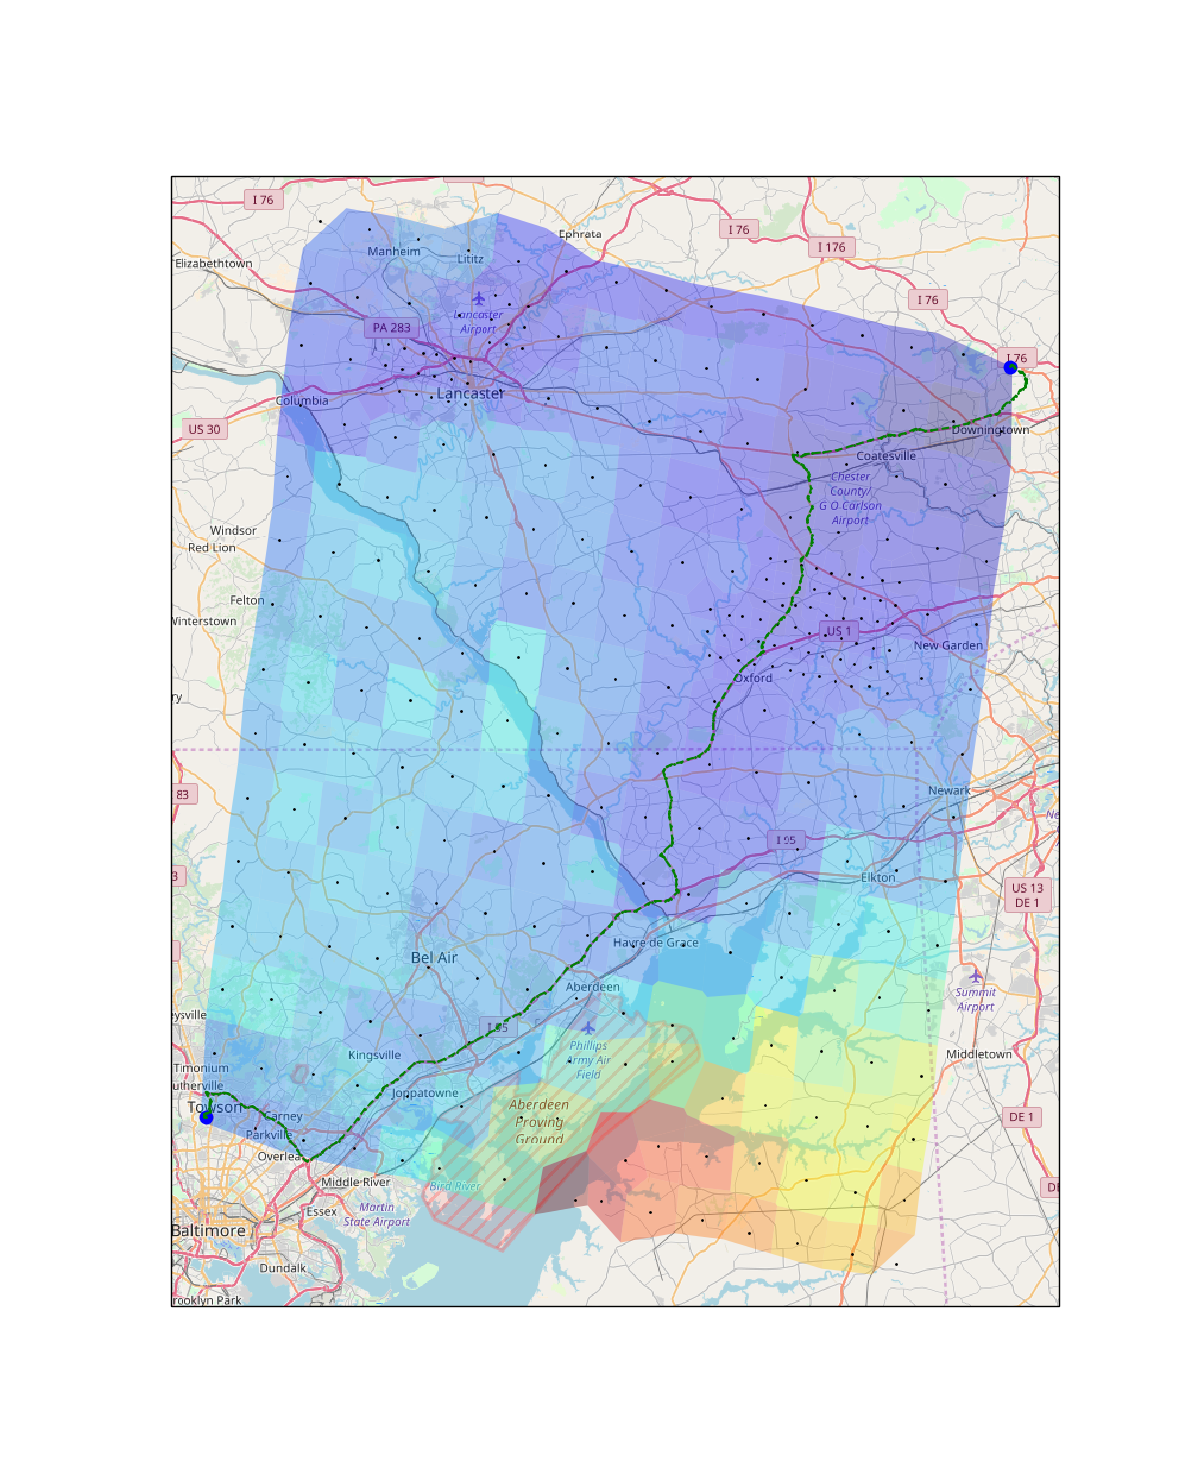
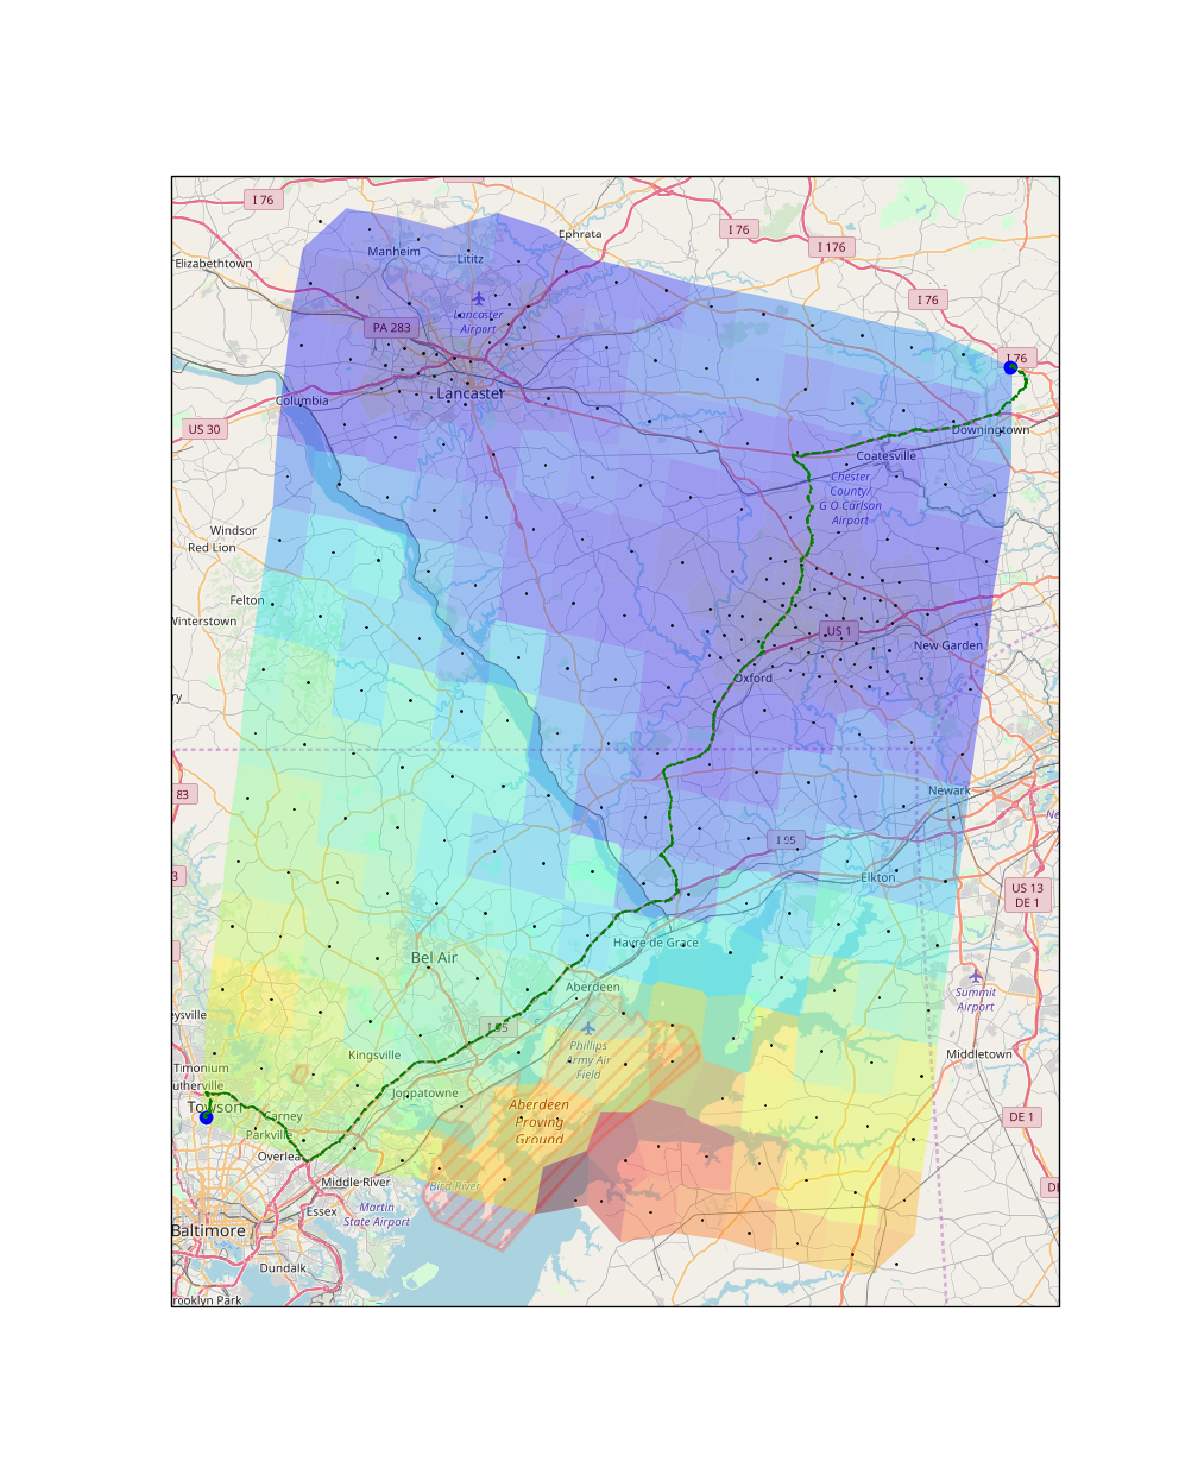
Added while loop to catch errors from Maps API

diff --git a/Voronoi+Directions.py b/Voronoi+Directions.py
@@ -14,6 +14,8 @@ from datetime import datetime
 from scipy.spatial import Voronoi, voronoi_plot_2d
 import shapely.geometry
 import shapely.ops
+import time
+
 
 
 gmaps = googlemaps.Client(key='AIzaSyCEVlqLL37Sy3D7ASUTjiy6WxNCTtUOVNA')
@@ -300,20 +302,20 @@ dfDest=pandas.DataFrame(columns=asColumns)
 #West
 dfDest.loc[0,'Lat']=40.061341
 dfDest.loc[0,'Lon']=-75.680189
-dfDest.loc[0,'Arrival']=pandas.datetime(2018,1,9,8,15) # do not use leading zeros
-dfDest.loc[0,'Depart']=pandas.datetime(2018,1,9,17,10)
+dfDest.loc[0,'Arrival']=pandas.datetime(2018,2,6,8,15) # do not use leading zeros
+dfDest.loc[0,'Depart']=pandas.datetime(2018,2,6,17,10)
 dfDest.loc[0,'NumDays']=5
 #Towson
 dfDest.loc[1,'Lat']=39.392512
 dfDest.loc[1,'Lon']=-76.612639
-dfDest.loc[1,'Arrival']=pandas.datetime(2018,1,9,11,15)
-dfDest.loc[1,'Depart']=pandas.datetime(2018,1,9,15,30)
+dfDest.loc[1,'Arrival']=pandas.datetime(2018,2,6,11,15)
+dfDest.loc[1,'Depart']=pandas.datetime(2018,2,6,15,30)
 dfDest.loc[1,'NumDays']=3.56
 ##Towson Northeast
 #dfDest.loc[1,'Lat']=39.564511
 #dfDest.loc[1,'Lon']=-76.289427
-#dfDest.loc[1,'Arrival']=pandas.datetime(2018,1,9,11,15)
-#dfDest.loc[1,'Depart']=pandas.datetime(2018,1,9,15,30)
+#dfDest.loc[1,'Arrival']=pandas.datetime(2018,2,6,11,15)
+#dfDest.loc[1,'Depart']=pandas.datetime(2018,2,6,15,30)
 #dfDest.loc[1,'NumDays']=3.5
 
 
@@ -331,6 +333,7 @@ corner=[
 hypotenuse=np.sqrt((corner[0]**2+corner[1]**2)) 
 side=hypotenuse/np.sqrt(2) 
 #specify spacing for side
+#note: should implement dynamic scaling: between minimum useful point distance and maximum number of api calls
 spacing=np.linspace(0,side,num=15,endpoint=True)
 
 #Create an initial grid 
@@ -470,6 +473,26 @@ for i in range(len(dfGrid)): #whole df
                  traffic_model="best_guess"
                  )    
 
+        #while loop to catch errors from google maps - perhaps this should be converted into a function
+        while (
+               'overview_polyline' not in gmDir_Dtemp[0] or
+               'duration' not in gmDir_Dtemp[0]['legs'][0] or #dur in seconds
+               'duration_in_traffic' not in gmDir_Dtemp[0]['legs'][0] #dur in seconds
+               ):
+            print('Retrying in 5 seconds')        
+            time.sleep(5)
+            
+            gmDir_Dtemp = gmaps.directions(
+                    origin=(dfDest.loc[j,'Lat'],dfDest.loc[j,'Lon']), #dest   lat,lon ,or string array with address
+                    destination=(dfGrid.loc[i,(0,'CorrLat')],dfGrid.loc[i,(0,'CorrLon')]), #grid pt   lat,lon ,or string array with address
+                     mode='driving',
+                     departure_time=dfDest.loc[j,'Depart'],
+                     traffic_model="best_guess"
+                     )    
+            
+            
+            
+    
         ##store departure columns from leg 0
         #store general depart data
         dfGrid.at[i,(j,'D-Polyline')]  =(
@@ -508,6 +531,27 @@ for i in range(len(dfGrid)): #whole df
 #                 traffic_model="best_guess"
                  )    
         
+        
+        #while loop to catch errors from google maps - perhaps this should be converted into a function
+        while (
+               'overview_polyline' not in gmDir_Atemp[0] or
+               'duration' not in gmDir_Atemp[0]['legs'][0] or #dur in seconds
+               'duration_in_traffic' not in gmDir_Atemp[0]['legs'][0] #dur in seconds
+               ):
+            print('Retrying in 5 seconds')        
+            time.sleep(5)
+            gmDir_Atemp = gmaps.directions(
+                    origin=(dfGrid.loc[i,(0,'CorrLat')],dfGrid.loc[i,(0,'CorrLon')]), #grid pt   lat,lon ,or string array with address
+                    destination=(dfDest.loc[j,'Lat'],dfDest.loc[j,'Lon']), #dest   lat,lon ,or string array with address
+                     mode='driving',
+            #         #        alternatives=False
+            ##        avoid=
+            #         units='imperial',
+                     departure_time=dfDest.loc[j,'Arrival']-tdArrivalShift,
+    #                 traffic_model="best_guess"
+                     )                
+            
+
         ##store arrival columns from leg 0
         if j==0:
             #store start location
@@ -651,6 +695,24 @@ for i in range(len(dfHR)): #whole df
                  traffic_model="best_guess"
                  )    
 
+        #while loop to catch errors from google maps - perhaps this should be converted into a function
+        while (
+               'overview_polyline' not in gmDir_Dtemp[0] or
+               'duration' not in gmDir_Dtemp[0]['legs'][0] or #dur in seconds
+               'duration_in_traffic' not in gmDir_Dtemp[0]['legs'][0] #dur in seconds
+               ):
+            print('Retrying in 5 seconds')        
+            time.sleep(5)
+            
+            gmDir_Dtemp = gmaps.directions(
+                    origin=(dfDest.loc[j,'Lat'],dfDest.loc[j,'Lon']), #dest   lat,lon ,or string array with address
+                    destination=(dfGrid.loc[i,(0,'CorrLat')],dfGrid.loc[i,(0,'CorrLon')]), #grid pt   lat,lon ,or string array with address
+                     mode='driving',
+                     departure_time=dfDest.loc[j,'Depart'],
+                     traffic_model="best_guess"
+                     )    
+
+
         ##store departure columns from leg 0
         #store general depart data
         dfHR.at[i,(j,'D-Polyline')]  =(
@@ -688,6 +750,29 @@ for i in range(len(dfHR)): #whole df
                  departure_time=dfDest.loc[j,'Arrival']-tdArrivalShift,
 #                 traffic_model="best_guess"
                  )    
+        
+        
+        #while loop to catch errors from google maps - perhaps this should be converted into a function
+        while (
+               'overview_polyline' not in gmDir_Atemp[0] or
+               'duration' not in gmDir_Atemp[0]['legs'][0] or #dur in seconds
+               'duration_in_traffic' not in gmDir_Atemp[0]['legs'][0] #dur in seconds
+               ):
+            print('Retrying in 5 seconds')        
+            time.sleep(5)
+            gmDir_Atemp = gmaps.directions(
+                    origin=(dfGrid.loc[i,(0,'CorrLat')],dfGrid.loc[i,(0,'CorrLon')]), #grid pt   lat,lon ,or string array with address
+                    destination=(dfDest.loc[j,'Lat'],dfDest.loc[j,'Lon']), #dest   lat,lon ,or string array with address
+                     mode='driving',
+            #         #        alternatives=False
+            ##        avoid=
+            #         units='imperial',
+                     departure_time=dfDest.loc[j,'Arrival']-tdArrivalShift,
+    #                 traffic_model="best_guess"
+                     )                
+        
+        
+        
         
         ##store arrival columns from leg 0
         if j==0:
@@ -762,9 +847,19 @@ dfGrid=pandas.concat([dfGrid,dfHR],ignore_index=True)
 #        dfGrid.loc[:,(0,'Equity')]-dfGrid.loc[:,(0,'Equity')].min()
 #        )/(dfGrid.loc[:,(0,'Equity')].max()-dfGrid.loc[:,(0,'Equity')].min())
 
+#dfGrid.loc[:,(0,'Norm')]=(
+#        dfGrid.loc[:,(0,'TotCom')]-dfGrid.loc[:,(0,'TotCom')].min()
+#        )/(dfGrid.loc[:,(0,'TotCom')].max()-dfGrid.loc[:,(0,'TotCom')].min())
+
+
+dfToNorm=dfGrid.loc[:,[(0,'TotCom'),(0,'Equity')]].mean(axis=1)
+
 dfGrid.loc[:,(0,'Norm')]=(
-        dfGrid.loc[:,(0,'TotCom')]-dfGrid.loc[:,(0,'TotCom')].min()
-        )/(dfGrid.loc[:,(0,'TotCom')].max()-dfGrid.loc[:,(0,'TotCom')].min())
+        dfToNorm-dfToNorm.min()
+        )/(dfToNorm.max()-dfToNorm.min())
+
+
+
 
 #select direction points for voronoi
 points=dfGrid.loc[:,[(0,'GMLon'),(0,'GMLat')]].copy().dropna()
